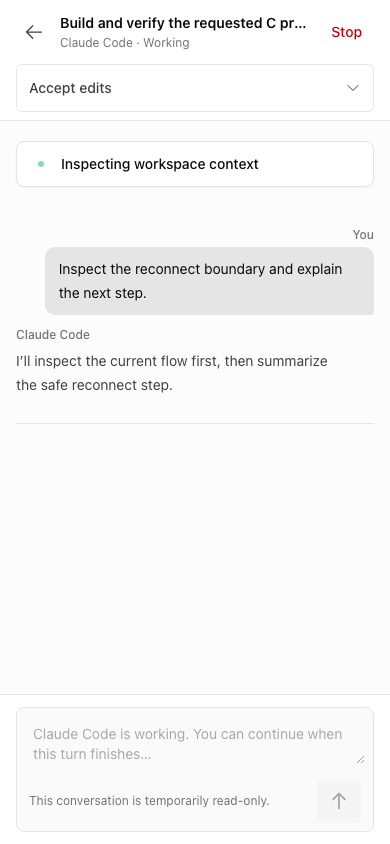
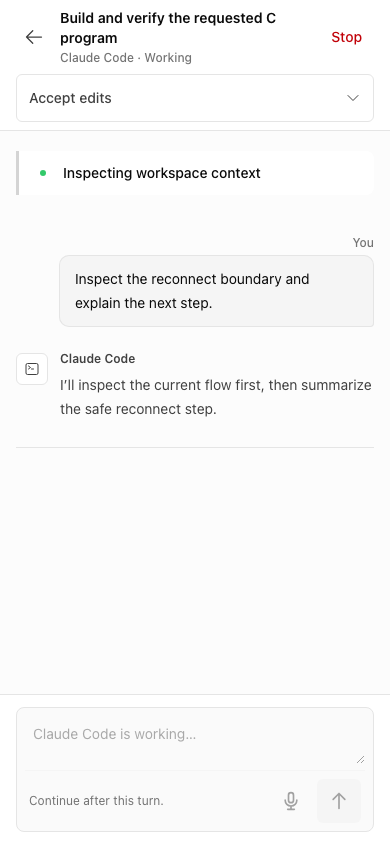
[ui] Clarify coding Work Room conversation and controls

diff --git a/components/chat/messages/coding-agent-workroom.tsx b/components/chat/messages/coding-agent-workroom.tsx
@@ -10,7 +10,7 @@ import { createPortal } from 'react-dom'
 import ReactMarkdown from 'react-markdown'
 import remarkGfm from 'remark-gfm'
 import { HiOutlineArrowUp } from 'react-icons/hi'
-import { HiOutlineArrowLeft, HiOutlineChevronDown } from 'react-icons/hi2'
+import { HiOutlineArrowLeft, HiOutlineChevronDown, HiOutlineCommandLine } from 'react-icons/hi2'
 import { useChatStore } from '../../../store/chat-store'
 import type { PendingApproval, ProviderInputHandler, ProviderInvocationUI, ProviderPermissionHandler, ProviderPermissionOption, ProviderStopPhase } from '../types'
 import { ChatApproval, type ApprovalState } from '../chat-approval'
@@ -67,9 +67,9 @@ function WorkroomMessage({
 }) {
   if (role === 'user') {
     return (
-      <div className="max-w-[92%]">
+      <div className="max-w-[88%] sm:max-w-[78%]">
         <p className="mb-1 text-right text-xs font-medium text-neutral-500">You</p>
-        <div className="rounded-2xl rounded-br-md bg-neutral-200 px-3.5 py-2.5 text-sm leading-6 whitespace-pre-wrap break-words text-neutral-950">
+        <div className="rounded-2xl rounded-br-md bg-neutral-100 px-4 py-3 text-sm leading-6 whitespace-pre-wrap break-words text-neutral-950 ring-1 ring-inset ring-neutral-200">
           {text}
         </div>
       </div>
@@ -77,16 +77,21 @@ function WorkroomMessage({
   }
 
   return (
-    <div className="min-w-0 max-w-[92%] text-sm leading-6 text-neutral-900">
-      <p className="mb-1 text-xs font-medium text-neutral-500">{providerName}</p>
-      <div className="prose prose-sm prose-neutral max-w-none break-words
+    <div className="flex min-w-0 max-w-full items-start gap-3 text-sm leading-6 text-neutral-900">
+      <span aria-hidden className="mt-0.5 flex h-8 w-8 shrink-0 items-center justify-center rounded-lg border border-neutral-200 bg-white text-neutral-700">
+        <HiOutlineCommandLine className="h-4 w-4" />
+      </span>
+      <div className="min-w-0 max-w-[70ch] flex-1">
+        <p className="mb-1 text-xs font-semibold text-neutral-700">{providerName}</p>
+        <div className="prose prose-sm prose-neutral max-w-none break-words
         prose-p:my-1.5 prose-headings:my-2 prose-headings:font-semibold
         prose-ul:my-2 prose-ol:my-2 prose-li:my-0.5
         prose-a:break-all prose-a:font-medium prose-a:text-neutral-900 prose-a:underline prose-a:decoration-neutral-300 prose-a:underline-offset-2 hover:prose-a:decoration-neutral-900
         prose-code:break-all prose-code:rounded prose-code:bg-neutral-100 prose-code:px-1 prose-code:py-0.5 prose-code:text-[13px] prose-code:before:content-none prose-code:after:content-none
         prose-pre:max-w-full prose-pre:overflow-x-auto prose-pre:whitespace-pre-wrap prose-pre:break-words prose-pre:rounded-lg prose-pre:bg-neutral-950 prose-pre:p-3 prose-pre:text-[13px]
         [&_pre_code]:break-words [&_pre_code]:bg-transparent [&_pre_code]:p-0 [&_pre_code]:text-neutral-100">
-        <ReactMarkdown remarkPlugins={[remarkGfm]}>{text}</ReactMarkdown>
+          <ReactMarkdown remarkPlugins={[remarkGfm]}>{text}</ReactMarkdown>
+        </div>
       </div>
     </div>
   )
@@ -319,14 +324,16 @@ export function CodingAgentWorkroom({
         : current.status === 'awaiting_approval'
           ? 'Resolve the approval request before sending another message…'
           : !providerCanAcceptWhileRunning && !terminal.has(current.status)
-            ? `${current.providerDisplayName} is working. You can continue when this turn finishes…`
+            ? `${current.providerDisplayName} is working…`
             : terminal.has(current.status)
               ? `Continue this ${current.providerDisplayName} session…`
               : `Tell ${current.providerDisplayName} what to adjust…`
   const composerHint = !providerComposer
     ? 'Messaging is unavailable in this client version.'
     : composerBlocked
-      ? 'This conversation is temporarily read-only.'
+      ? !providerCanAcceptWhileRunning && !terminal.has(current.status) && !stopPending && !stateNeedsConfirmation
+        ? 'Continue after this turn.'
+        : 'This conversation is temporarily read-only.'
       : 'Enter sends · Shift+Enter adds a line'
   const sendDirectMessage = async () => {
     const text = draft.trim()
@@ -458,10 +465,10 @@ export function CodingAgentWorkroom({
             <span className="hidden sm:inline">Back</span>
           </button>
           <div className="min-w-0 flex-1">
-            <h1 id="workroom-heading" ref={headingRef} tabIndex={-1} className="truncate text-sm font-semibold text-neutral-950 focus:outline-none">
+            <h1 id="workroom-heading" ref={headingRef} tabIndex={-1} className="line-clamp-2 text-sm font-semibold leading-5 text-neutral-950 focus:outline-none sm:truncate sm:text-[15px]">
               {taskHeading}
             </h1>
-            <p className="mt-0.5 text-xs text-neutral-500">
+            <p className="mt-0.5 text-xs font-medium text-neutral-500">
               {invocation.providerDisplayName} · {displayStatus(current.status, effectiveStopPhase)}
             </p>
           </div>
@@ -558,7 +565,7 @@ export function CodingAgentWorkroom({
       <main className="min-h-0 flex-1 overflow-y-auto bg-neutral-50/60 px-4 sm:px-6">
         <div className="mx-auto flex max-w-3xl flex-col">
           {hasDecision && (
-            <section aria-live="assertive" aria-label="Work Room decision" className="rounded-xl border border-neutral-300 bg-neutral-50 p-1">
+            <section aria-live="assertive" aria-label="Work Room decision" className="my-5 rounded-xl border border-neutral-300 bg-neutral-50 p-1">
               <ChatApproval
                 approval={pendingApproval!}
                 approvalResolution={approvalResolution}
@@ -581,7 +588,7 @@ export function CodingAgentWorkroom({
           )}
 
           {!hasDecision && (
-            <section aria-label="Current provider status" className="my-5 rounded-xl border border-neutral-200 bg-white px-4 py-3 shadow-sm">
+            <section aria-label="Current provider status" className="my-5 rounded-r-xl border-l-[3px] border-neutral-300 bg-white px-4 py-3">
               <div className="flex items-start gap-3">
                 <ToolStatus
                   status={stateNeedsConfirmation
@@ -625,7 +632,7 @@ export function CodingAgentWorkroom({
           )}
 
           {showProviderConversation ? (
-            <section aria-label={`${current.providerDisplayName} conversation`} className="border-b border-neutral-200 py-5">
+            <section aria-label={`${current.providerDisplayName} conversation`} className="border-b border-neutral-200 py-5 sm:py-6">
               {preview ? (
                 <figure aria-label="Latest provider view" className="mx-auto flex aspect-video w-full max-w-xl items-center justify-center overflow-hidden rounded-lg border border-neutral-200 bg-neutral-50">
                   <img
@@ -636,7 +643,7 @@ export function CodingAgentWorkroom({
                 </figure>
               ) : null}
               {conversation.length > 0 && (
-                <ol className={preview ? 'mt-4 space-y-3' : 'space-y-3'} aria-live="polite">
+                <ol className={preview ? 'mt-5 space-y-6' : 'space-y-6'} aria-live="polite">
                   {visibleConversation.map(message => (
                     <li
                       key={message.id}

diff --git a/e2e/coding-agent-card.spec.ts b/e2e/coding-agent-card.spec.ts
@@ -38,7 +38,9 @@ test('Claude Code keeps its attributed conversation and current task visible in 
 
   const card = pane(page).getByRole('region', { name: 'Claude Code Working' })
   await expect(card).toContainText('Inspecting workspace context')
-  await card.getByRole('button', { name: 'Open Work Room' }).click()
+  const openWorkroom = card.getByRole('button', { name: 'Open Work Room' })
+  await expect(openWorkroom).toContainText('Open Work Room')
+  await openWorkroom.click()
 
   const room = workroom(page)
   await expect(room.getByLabel('Current provider status')).toContainText('Inspecting workspace context')
@@ -55,6 +57,12 @@ test('Claude Code keeps its attributed conversation and current task visible in 
   await expect(room.getByLabel('Current provider status')).toBeInViewport()
   await expect(conversation).toBeInViewport()
   await shot('claude-code-workroom-conversation-mobile')
+
+  await page.setViewportSize({ width: 320, height: 720 })
+  await expect(room.getByLabel('Current provider status')).toBeInViewport()
+  await expect(room.getByLabel('Message Claude Code directly')).toBeInViewport()
+  expect(await page.evaluate(() => document.documentElement.scrollWidth)).toBeLessThanOrEqual(320)
+  await shot('claude-code-workroom-conversation-mobile-320')
 
   await page.setViewportSize({ width: 768, height: 1024 })
   await expect(room.getByLabel('Current provider status')).toBeInViewport()

diff --git a/components/chat/messages/coding-agent-card.tsx b/components/chat/messages/coding-agent-card.tsx
@@ -364,14 +364,14 @@ export function CodingAgentCard({
             type="button"
             aria-label={reviewRequired ? 'Review decision' : 'Open Work Room'}
             onClick={() => setWorkroomOpen(true)}
-            className={`flex h-9 w-9 shrink-0 items-center justify-center rounded-md focus:outline-none focus-visible:ring-2 focus-visible:ring-neutral-900 focus-visible:ring-offset-2 ${
+            className={`flex min-h-10 shrink-0 items-center justify-center gap-1.5 rounded-lg px-2.5 text-xs font-semibold focus:outline-none focus-visible:ring-2 focus-visible:ring-neutral-900 focus-visible:ring-offset-2 sm:px-3 ${
               reviewRequired
                 ? 'bg-neutral-900 text-white hover:bg-neutral-800'
-                : 'text-neutral-500 hover:bg-neutral-200/70 hover:text-neutral-900'
+                : 'border border-neutral-200 bg-white text-neutral-800 hover:border-neutral-300 hover:bg-neutral-100'
             }`}
           >
-            <span className="sr-only">{reviewRequired ? 'Review decision' : 'Open Work Room'}</span>
-            <HiOutlineChevronRight className="h-4 w-4" aria-hidden />
+            <span className="hidden sm:inline">{reviewRequired ? 'Review decision' : 'Open Work Room'}</span>
+            <HiOutlineChevronRight className="h-4 w-4 shrink-0" aria-hidden />
           </button>
         )}
       </div>
